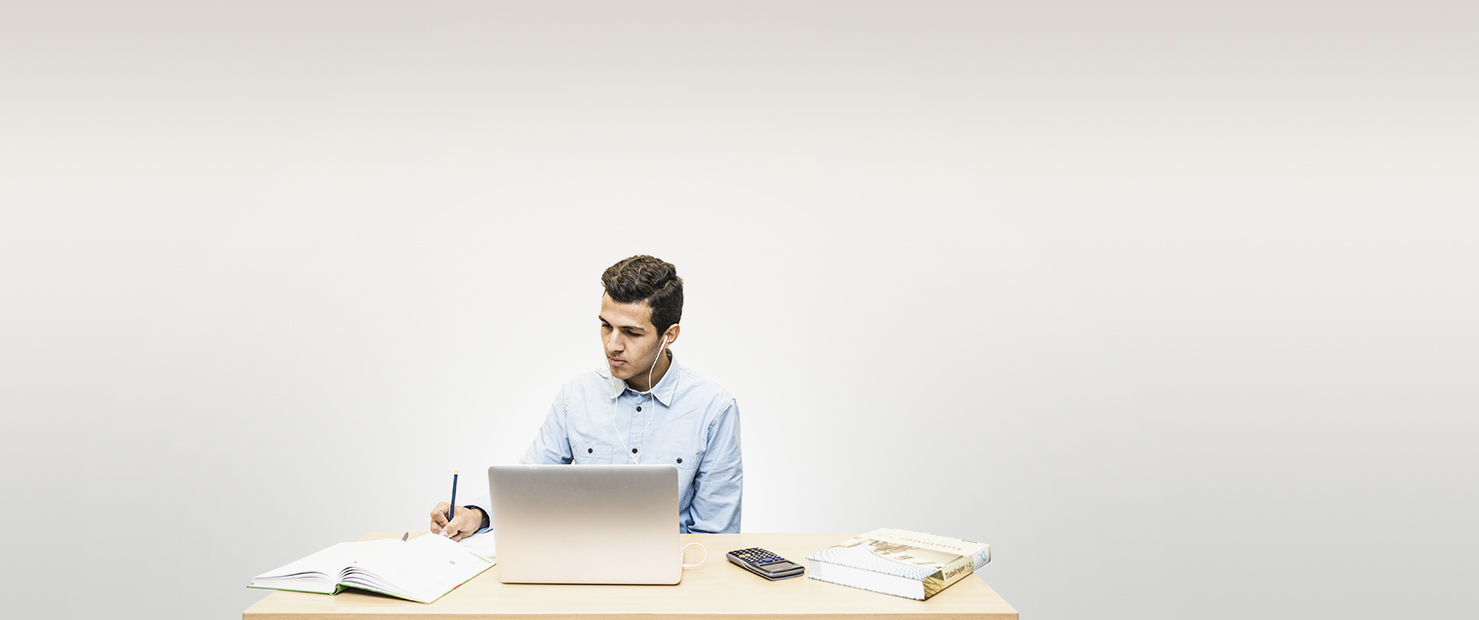
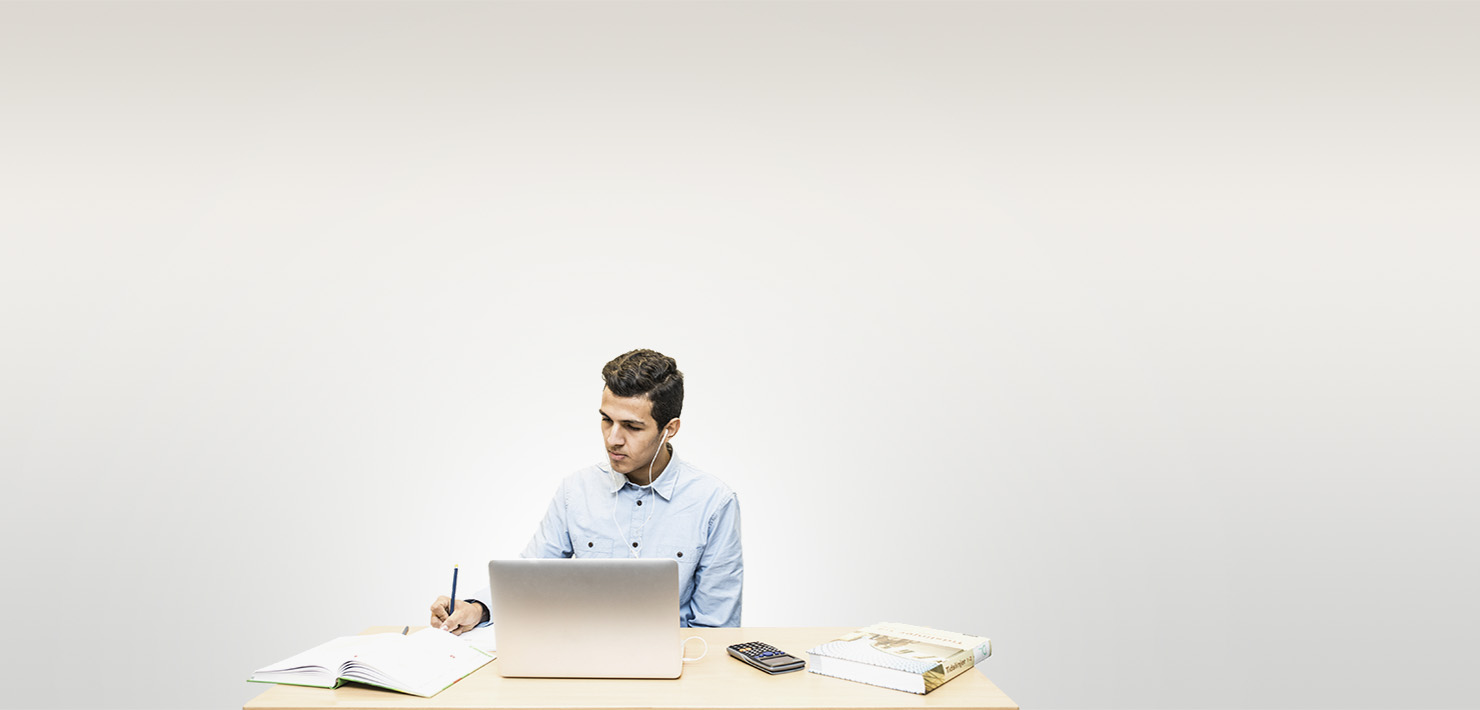
New header photo and pixel polishing

Changed region(s): [[0.1555, 0.3984, 0.6842, 1.0]]

diff --git a/client/views/student/home.html b/client/views/student/home.html
@@ -21,14 +21,14 @@
                 <h1 class="title"><a href="/">Digitalleksehjelp.no</a></h1>
 
                 <div class="row">
-                    <div class="col-md-4">
+                    <div class="col-md-4 col-sm-6">
                         <p class="info-text">
                             Røde Kors leksehjelp skal være en møteplass der frivillige leksehjelpere legger til rette for mestring, motivasjon, og et godt læringsmiljø. På leksehjelpen møter elevene voksne med fagkunnskap og erfaring.
                         </p>
                         <a id="more-info" href="#" class="red-cross-link">Les mer om tjenesten</a>
                     </div>
 
-                    <div class="col-md-4 col-md-offset-4">
+                    <div class="col-md-4 col-md-offset-4 col-sm-6">
                         {{> getHelpBox}}
                     </div>
                 </div>
@@ -75,10 +75,9 @@
 
             <p class="schedule center get-help-box-item extra-margin">Du kan også <a href="/sporsmal" class="red-cross-link">sende inn spørsmål</a> så <br>svarer vi deg innen 2-3 dager.</p>
         {{else}}
-            <h3 class="get-help-box-title"><b>Vår videochat er ikke åpen for øyeblikket</b></h3>
+            <h3 class="get-help-box-title">Vår videochat er ikke åpen for øyeblikket</h3>
             <p class="get-help-box-item">Du kan <a href="/sporsmal" class="red-cross-link">sende inn spørsmål</a> som vi <br>besvarer innen 2-3 dager.</p>
-            <br>
-            <h3><b>Åpningstider for videochat</b></h3>
+            <h3 class="get-help-box-title smaller">Åpningstider for videochat</h3>
             <p class="schedule get-help-box-item">
                 {{{openingHours}}}
             </p>
@@ -97,19 +96,12 @@
     <div class="container previous-questions-container">
         <div class="row">
             <div class="col-md-4 col-sm-6">
-            {{#if serviceIsOpen}}
                 {{#each previousQuestions 0 2}}
                     <div class="question-item">
                         <p><a href="/sporsmal/{{_id}}">{{trim question 120}}</a></p>
                         <p class="question-item-footer">{{subjectName subjectId}}, {{grade}} &ndash; {{fromNow questionDate}}</p>
                     </div>
                 {{/each}}
-            {{else}}
-                <p class="schedule">
-                    Du kan også sende inn spørsmål til oss her på nettsidene. Vi svarer deg i løpet av 2-3 dager.
-                </p>
-                <button id="ask-question" class="default-button full-width">Send inn spørsmål</button>
-            {{/if}}
             </div>
             <div class="col-md-4 hidden-sm hidden-xs">
                 {{#each previousQuestions 2 2}}

diff --git a/client/stylesheets/less/new-design.less b/client/stylesheets/less/new-design.less
@@ -21,12 +21,12 @@ h1, h2, h3, h4, h5 {
 .wrapper {
     min-height: 100%;
     position: relative;
+    margin-top: -25px;
 }
 
 .header {
     background: url('/header_bg.png');
     height: 240px;
-    margin-top: -20px;
 }
 
 .dl-content {
@@ -44,11 +44,11 @@ h1, h2, h3, h4, h5 {
 
 .home-header {
     background: url('/header_bg.png');
-    height: 620px;
+    height: 710px;
 }
 
 .home {
-    margin-top: -20px;
+    margin-top: -25px;
 
     .container {
         padding-left: 35px;
@@ -75,6 +75,7 @@ h1, h2, h3, h4, h5 {
 @media (max-width: 1000px) {
     #video-help-container {
         background: @todays-volunteers-bg-color !important;
+        padding-bottom: 40px;
     }
 
     .home-header {
@@ -126,6 +127,12 @@ h1, h2, h3, h4, h5 {
     }
 }
 
+@media (max-width: 400px) {
+    .title {
+        font-size: 30px !important;
+    }
+}
+
 #video-help-container {
     background: url('/studying_man.jpg') no-repeat center;
     height: 100%;
@@ -150,6 +157,7 @@ a {
     font-weight: 300;
     font-size: 70px;
     margin-left: -7px;
+    margin-top: 10px;
     color: black;
 
     a {
@@ -168,18 +176,26 @@ a {
 }
 
 .get-help-box-item {
-    margin-top: 15px;
+    margin-top: 20px;
 
     &.extra-margin {
-        margin-top: 20px;
+        margin-top: 35px;
     }
 }
 
 .get-help-box-title {
     font-size: 28px;
+    line-height: 38px;
     font-family: @sans;
     font-weight: 700;
     color: black;
+    margin-bottom: 0;
+
+    &.smaller {
+        font-size: 22px;
+        margin-top: 30px;
+        margin-bottom: -10px;
+    }
 }
 
 .dl-dropdown {

diff --git a/client/views/student/modals/queueModal.html b/client/views/student/modals/queueModal.html
@@ -15,7 +15,6 @@
 <template name="queueModalBody">
     {{#with studentSession }}
         <div class="modal-header dl-modal-header">
-            <button type="button" class="dl-modal-close" data-dismiss="modal" aria-hidden="true">&times; </button>
             {{#if stateWaiting }}
                 <h2 class="modal-title">Du venter i kø</h2>
             {{/if}}

diff --git a/client/stylesheets/less/fonts.import.less b/client/stylesheets/less/fonts.import.less
@@ -1,0 +1,5 @@
+@import url(http://fonts.googleapis.com/css?family=Merriweather:300,400,700);
+@import url(http://fonts.googleapis.com/css?family=Open+Sans:300,400,700);
+
+@sans: 'Open Sans', Arial, sans-serif;
+@merriweather: 'Merriweather', Georgia, serif;
